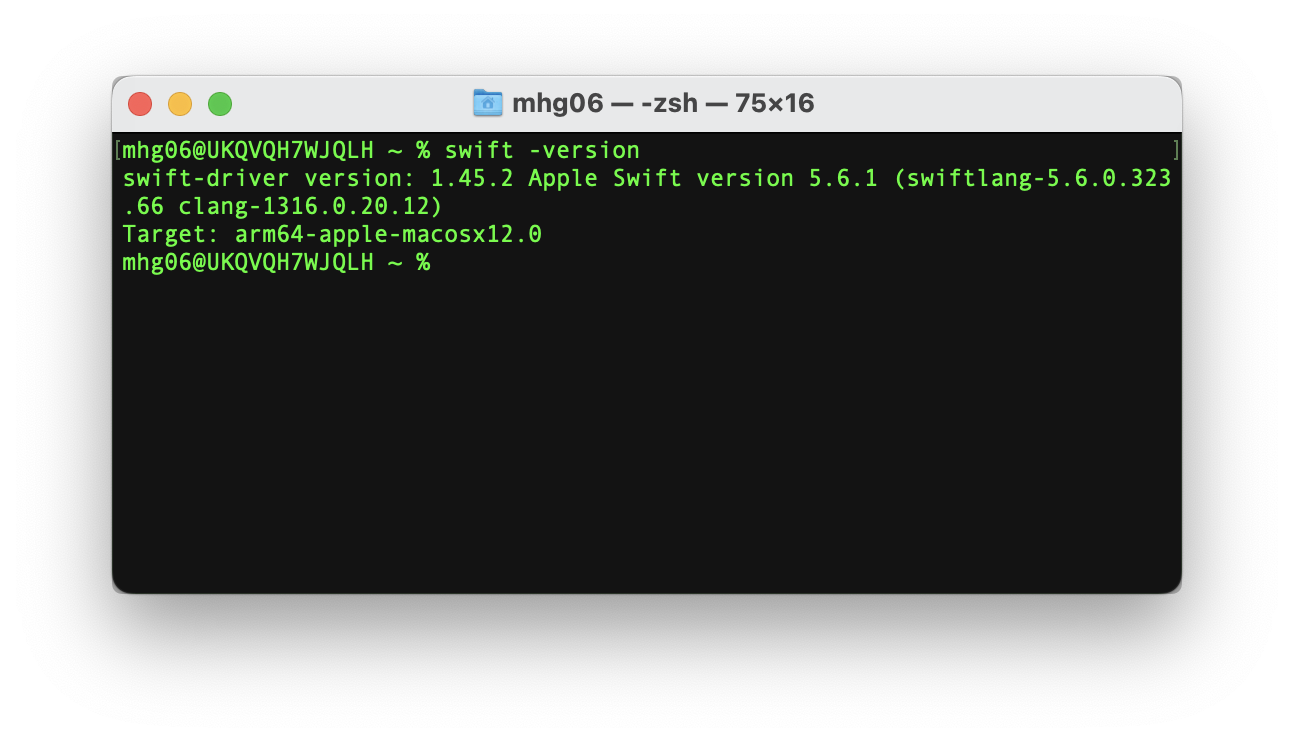
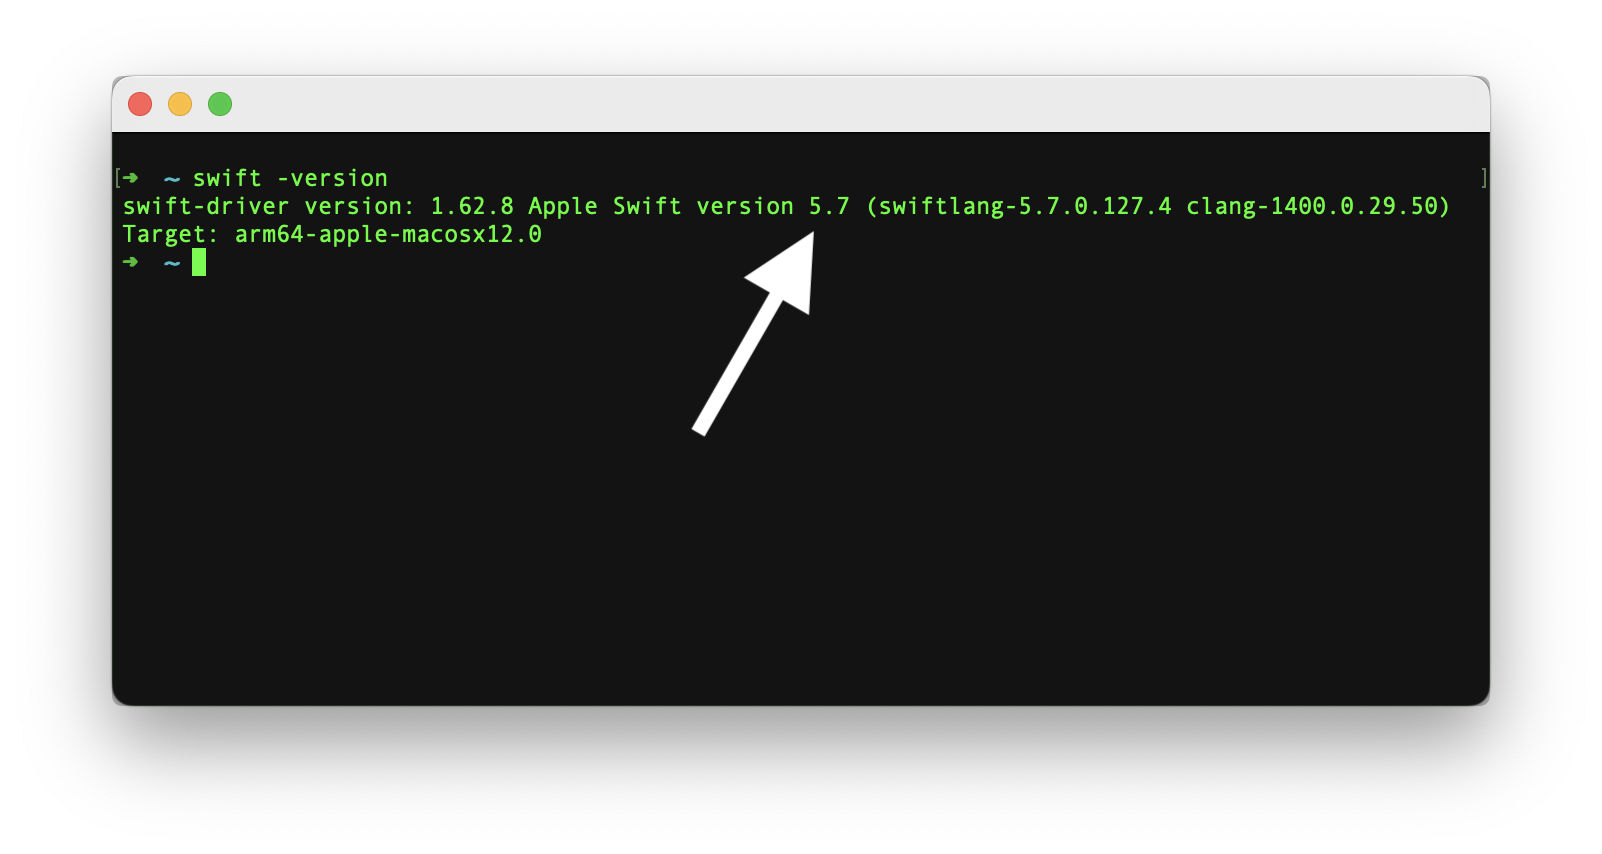
Reworded the find-my-swift-version .md document with a clearer explanation and a better example image too

Changed region(s): [[0.0618, 0.093, 0.9583, 0.8679], [0.4328, 0.279, 0.5255, 0.527]]

diff --git a/find-my-swift-version.md b/find-my-swift-version.md
@@ -2,7 +2,8 @@
 
 Swift v5.7 | [Swift versions](find-my-swift-version.md) | [Swift.org](https://docs.swift.org).
 
-Taken from the [official Swift documentation](https://docs.swift.org/swift-book/LanguageGuide/TheBasics.html).
+Created by Matthew Harding
+@[MatthewpHarding](https://github.com/MatthewpHarding) 🔗
 
 🤩 *..let's live a better life, by learning Swift* 🛠
 
@@ -16,34 +17,33 @@ let myLife = [learning, coding, happiness]
 
 Finding your current version of Swift is easy. Just follow the steps below:
 
-1. Open the Terminal app on your macbook. (cmd + space. Then type 'Terminal. app' in the window that appears).
-2. Type 'swift -version' and press enter.
-3. The shell environment (that's the Terminal) will print the version you have installed. 
+**Step 1**: Open the Terminal app on your macbook. 
+💡 **Tip**: Press `cmd + space` and type `Terminal.app` in the search bar that appears.
 
-In the example below the Terminal console window printed, 'Apple Swift version 5.6.1'. In this case, the version of Swift would be v5.6.1. 👍
+**Step 2**: Type `swift -version` into the Terminal window.
+
+**Step 3**: Read the version printed.  
+
+In the example below, **Apple Swift version 5.7** was printed. 👍
 
 ![Terminal](readme-images/swift-version.png)
 
+## Our Services
+We made the official Swift documentation searchable. [Try it](https://github.com/MatthewpHarding?tab=repositories&q=SWIFTDOCS+hello+world). Our aim is to optimise career growth for juniors learning iOS by teaching Swift via our online courses. We have taken the official Swift documentation and **simplified it** for fast learning. 😎
 
+💡 **Top Tip**: During an iOS interview they'll ask questions about Swift, not iOS! To BOOST 🚀 your career forwards become an expert of the Swift language.
 
-## The End
-Taken from **official Swift** documentation found [here ](https://docs.swift.org/swift-book/LanguageGuide/TheBasics.html).
+- 🔍 **Searchable Swift documentation**: [Try it](https://github.com/MatthewpHarding?tab=repositories&q=SWIFTDOCS+hello+world).
 
-- 🔍 We made the **official Swift documentation** [searchable](https://github.com/MatthewpHarding?tab=repositories). 
+- 🕊 **Xcode playgrounds**: Run and execute the official Swift documentation in Xcode! . [Try it](https://github.com/MatthewpHarding/SWIFTDOCS-1-the-basics/archive/refs/heads/main.zip).
 
-- 🕊 All official documentation begins with `SWIFTDOCS`. [Try it](https://github.com/MatthewpHarding?tab=repositories&q=SWIFTDOCS).
+- 👉 **Online Courses**: [**Swift Simplified** *(for fast learning)* A Guided Tour of Swift](https://www.udemy.com/user/iosbfree) can be found on [Udemy.com](https://www.udemy.com/user/iosbfree). [Try it](https://www.udemy.com/user/iosbfree).
 
-- 🕊 All simplified documentation begins with `SIMPLDOCS`. [Try it](https://github.com/MatthewpHarding?tab=repositories&q=SIMPLDOCS).
+- *Preview* our Online Course Xcode playground [**Swift Simplified**: A Guided Tour of Swift](https://github.com/MatthewpHarding/a-tour-of-swift) 
 
-- Try our free mini-course:
-👉 [A Guided Tour of Swift](https://github.com/MatthewpHarding/a-tour-of-swift) 
-
-# 🤷🏼♂
-
-
-
+# 🧑🏼💻
+Created by Matthew Harding
 @[MatthewpHarding](https://github.com/MatthewpHarding) 🔗
-
 
 🤩 *..let's live a better life, by learning Swift* 🛠
 
